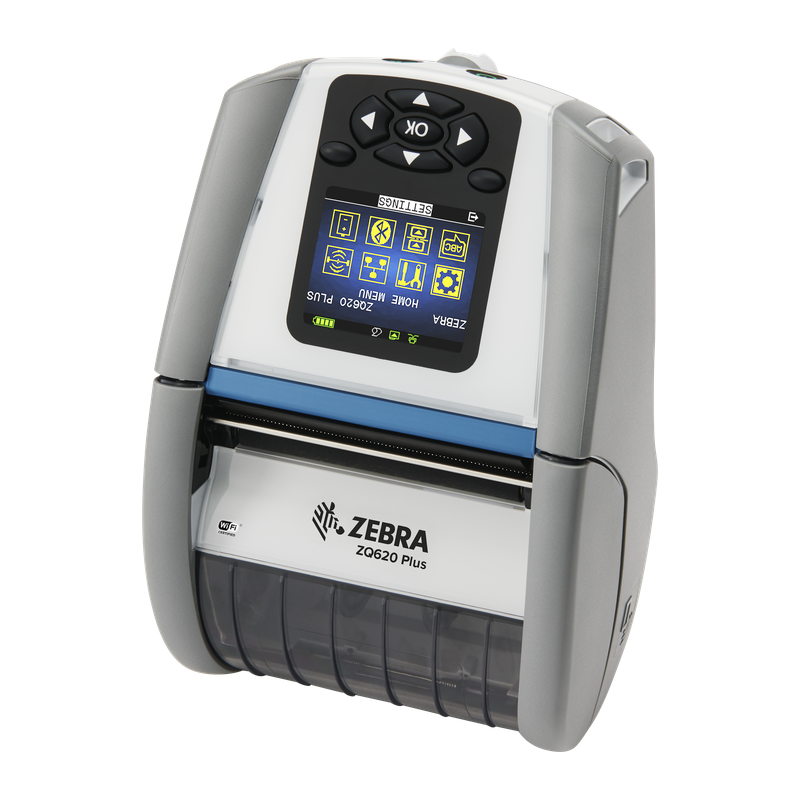
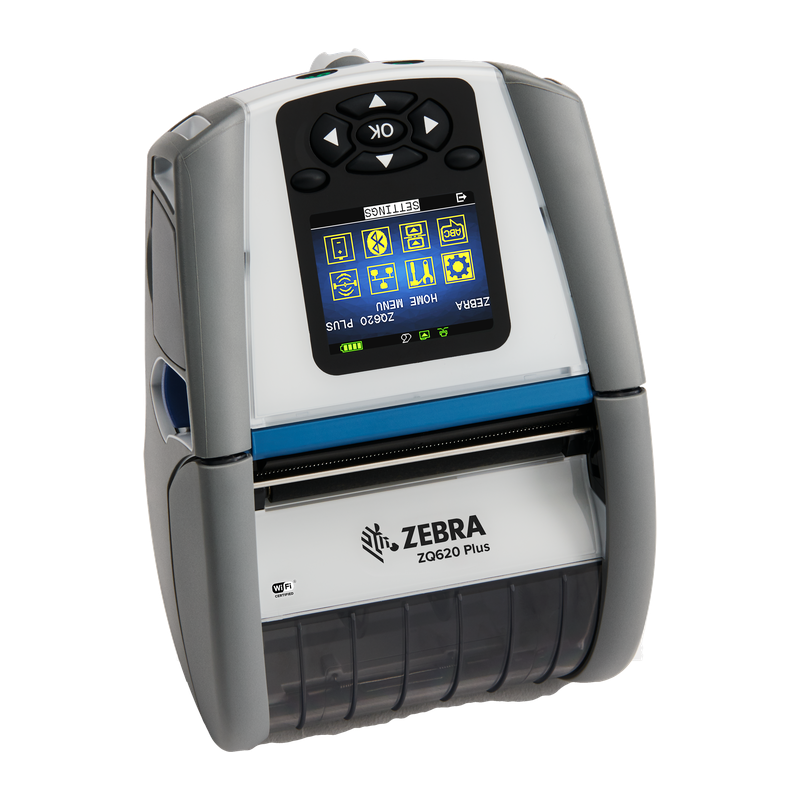
Zebra ZD411-HC i ZQ620 Plus-HC: zdjęcia główne skierowane jak w reszcie kategorii
ZD411-HC dostaje ujęcie Zebry od lewego boku, bez cienia (jak ZD611-HC).
ZQ620 Plus-HC dostaje ujęcie od lewego boku (jak ZQ610 Plus-HC), bez nakładki
Wi-Fi 6 i bez cienia. Dotychczasowe ujęcia zostają na końcu galerii.

diff --git a/src/data/zebra-hc-zd4-products.ts b/src/data/zebra-hc-zd4-products.ts
@@ -29,6 +29,7 @@ Każda konfiguracja ma USB i USB Host. W tabeli są wersje z Ethernetem oraz wer
     '/images/products/ZD4AH22-D0EE00EZ-3.png',
     '/images/products/ZD4AH22-D0EE00EZ-4.png',
     '/images/products/ZD4AH22-D0EE00EZ-5.png',
+    '/images/products/ZD4AH22-D0EE00EZ-6.png',
   ],
   imageDescriptions: [
     'Zebra ZD411-HC — biała drukarka termiczna 2", widok z przodu pod kątem, przezroczysta pokrywa komory etykiet',
@@ -36,6 +37,7 @@ Każda konfiguracja ma USB i USB Host. W tabeli są wersje z Ethernetem oraz wer
     'Zebra ZD411-HC z wydrukowaną etykietą na próbkę, widok pod kątem',
     'Zebra ZD411-HC — widok z tyłu: gniazdo zasilania, porty USB i gniazdo modułu łączności',
     'Zebra ZD411-HC na podstawie z baterią (bateria i podstawa sprzedawane osobno)',
+    'Zebra ZD411-HC — widok pod kątem od prawego boku obudowy, z przezroczystą pokrywą komory etykiet',
   ],
   tags: ['healthcare'],
   availability: 'available',

diff --git a/src/data/zebra-hc-zq6-products.ts b/src/data/zebra-hc-zq6-products.ts
@@ -197,6 +197,7 @@ Obudowa ma klasę szczelności IP54, a jej tworzywa znoszą regularną dezynfekc
     '/images/products/ZQ62-HUXAE04-00-4.png',
     '/images/products/ZQ62-HUXAE04-00-5.png',
     '/images/products/ZQ62-HUXAE04-00-6.png',
+    '/images/products/ZQ62-HUXAE04-00-7.png',
   ],
   imageDescriptions: [
     'Zebra ZQ620 Plus-HC — mobilna drukarka 3" w kolorystyce dla ochrony zdrowia, widok z przodu pod kątem',
@@ -205,6 +206,7 @@ Obudowa ma klasę szczelności IP54, a jej tworzywa znoszą regularną dezynfekc
     'Zebra ZQ620 Plus-HC z etykietą w szczelinie wydruku, na wyświetlaczu stan gotowości — widok z przodu',
     'Zebra ZQ620 Plus-HC z baterią i klipsem do paska — elementy zestawu',
     'Zebra ZQ620 Plus-HC i ZQ610 Plus-HC (z prawej, sprzedawana osobno) — porównanie wielkości',
+    'Zebra ZQ620 Plus-HC — widok pod kątem od prawego boku obudowy',
   ],
   tags: ['healthcare'],
   availability: 'available',
